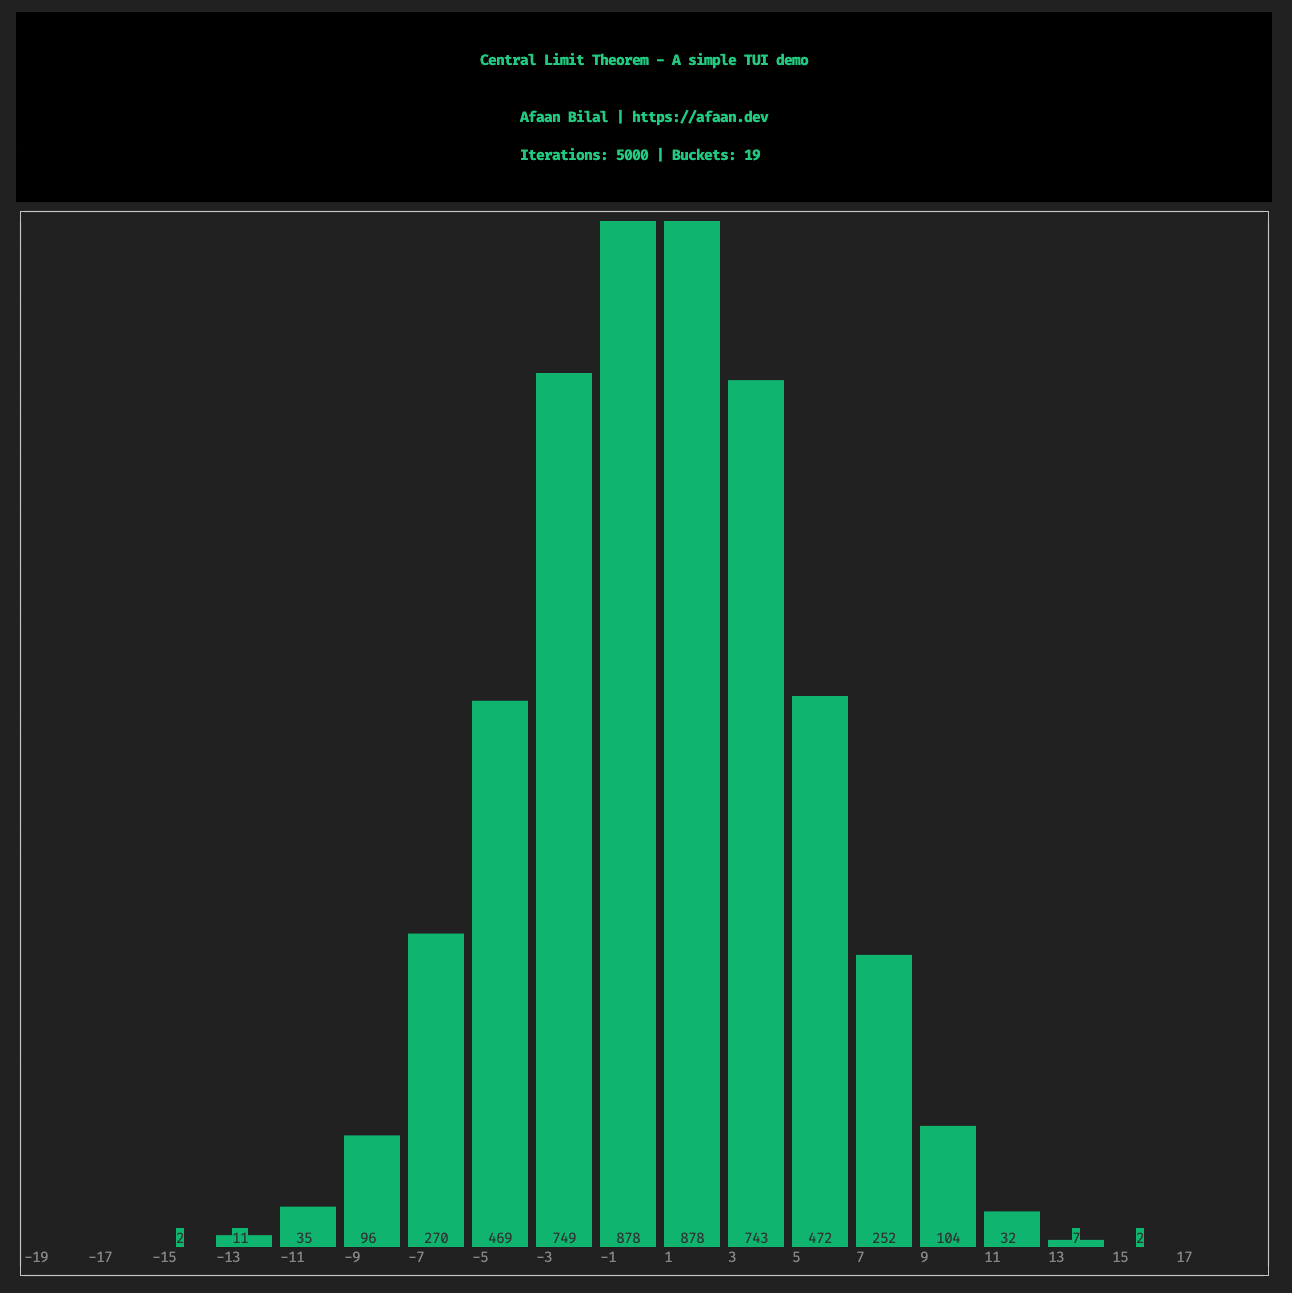
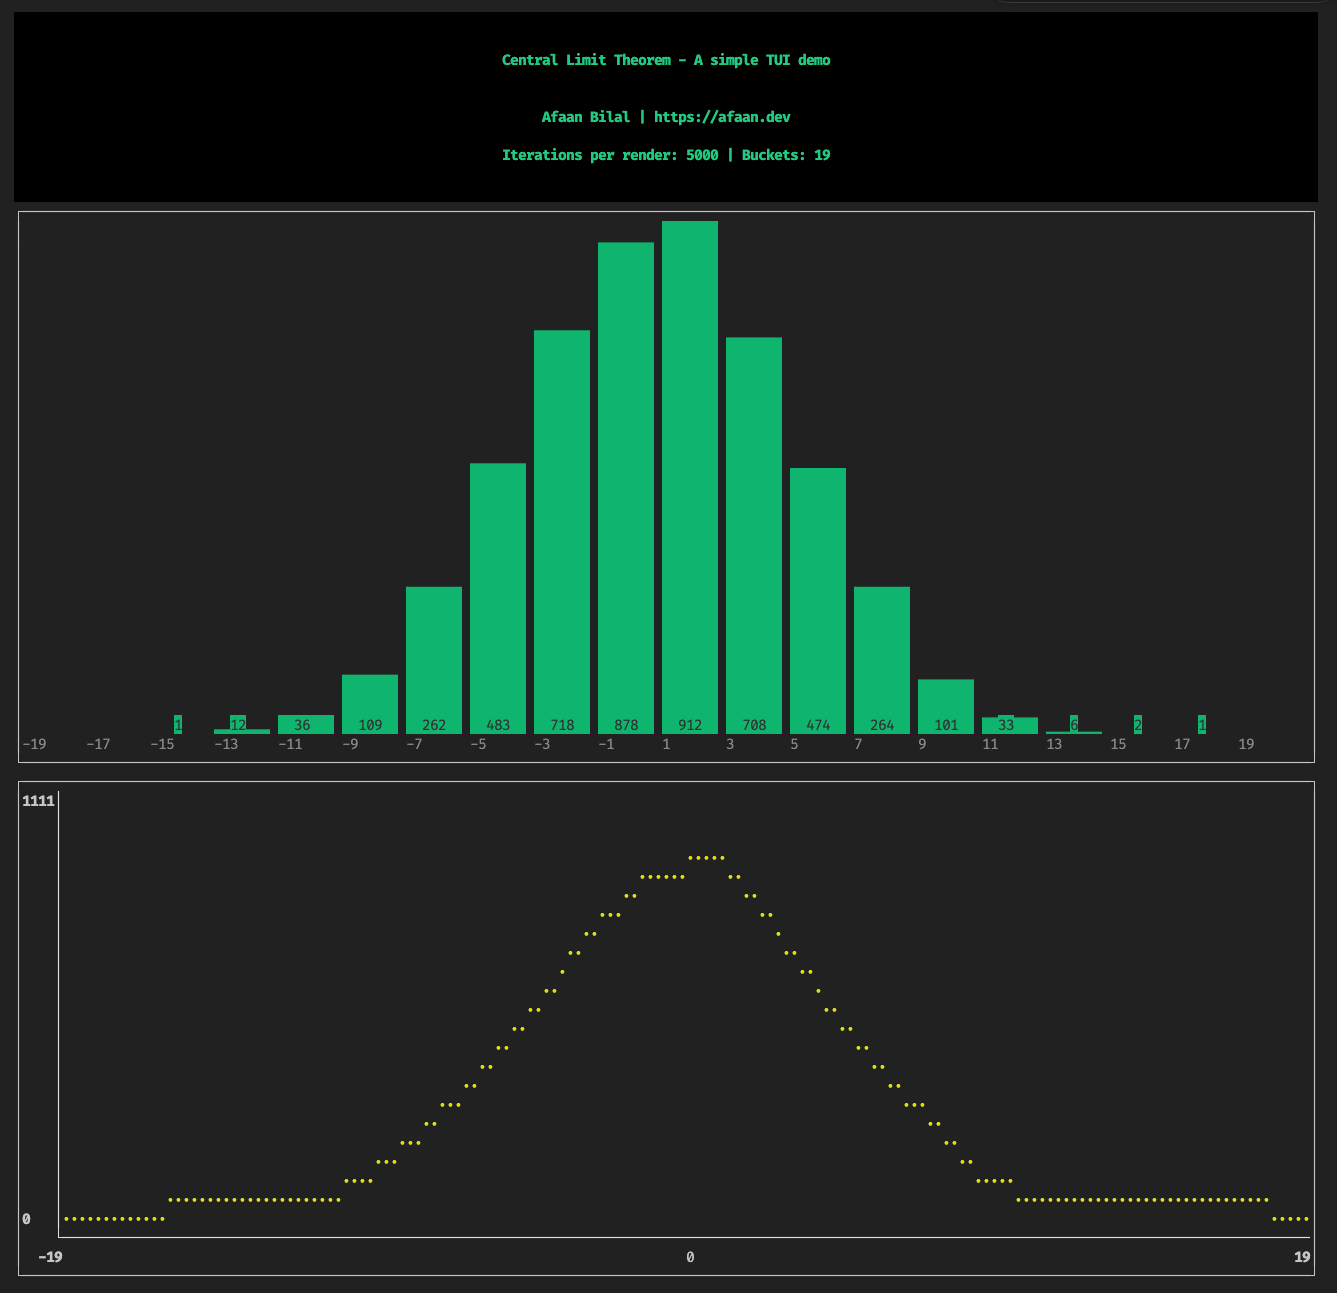
✨ Add: Line Graph

diff --git a/src/main.rs b/src/main.rs
@@ -22,7 +22,9 @@ use tui::{
     backend::{Backend, CrosstermBackend},
     layout::{Alignment, Constraint, Direction, Layout},
     style::{Color, Modifier, Style},
-    widgets::{BarChart, Block, Borders, Paragraph},
+    symbols,
+    text::Span,
+    widgets::{Axis, BarChart, Block, Borders, Chart, Dataset, GraphType, Paragraph},
     Frame, Terminal,
 };
 
@@ -69,28 +71,23 @@ impl App {
         self.data.clear();
 
         for b in buckets {
-            self.data.push((
-                format!("{}", b),
-                sums.iter().filter(|s| *s == &b).count() as u64,
-            ));
+            let sum = sums.iter().filter(|s| *s == &b).count() as u64;
+            self.data.push((format!("{}", b), sum));
         }
     }
 }
 
 fn main() -> Result<(), Box<dyn Error>> {
-    // setup terminal
     enable_raw_mode()?;
     let mut stdout = io::stdout();
     execute!(stdout, EnterAlternateScreen, EnableMouseCapture)?;
     let backend = CrosstermBackend::new(stdout);
     let mut terminal = Terminal::new(backend)?;
 
-    // create app and run it
     let tick_rate = Duration::from_millis(500);
     let app = App::new();
     let res = run_app(&mut terminal, app, tick_rate);
 
-    // restore terminal
     disable_raw_mode()?;
     execute!(
         terminal.backend_mut(),
@@ -136,7 +133,14 @@ fn ui<B: Backend>(f: &mut Frame<B>, app: &App) {
     let chunks = Layout::default()
         .direction(Direction::Vertical)
         .margin(2)
-        .constraints([Constraint::Percentage(15), Constraint::Percentage(85)].as_ref())
+        .constraints(
+            [
+                Constraint::Percentage(15),
+                Constraint::Percentage(45),
+                Constraint::Percentage(40),
+            ]
+            .as_ref(),
+        )
         .split(f.size());
 
     f.render_widget(
@@ -154,7 +158,7 @@ fn ui<B: Backend>(f: &mut Frame<B>, app: &App) {
         chunks[0],
     );
 
-    let app_data = app
+    let bar_data = app
         .data
         .iter()
         .map(|x| (x.0.as_str(), x.1))
@@ -162,7 +166,7 @@ fn ui<B: Backend>(f: &mut Frame<B>, app: &App) {
 
     let bar_chart = BarChart::default()
         .block(Block::default().borders(Borders::ALL))
-        .data(&app_data)
+        .data(&bar_data)
         .bar_width(7)
         .bar_gap(1)
         .bar_style(Style::default().fg(Color::Green))
@@ -173,4 +177,50 @@ fn ui<B: Backend>(f: &mut Frame<B>, app: &App) {
         )
         .value_style(Style::default().fg(Color::White).bg(Color::Green));
     f.render_widget(bar_chart, chunks[1]);
+
+    let app_line_data = app
+        .data
+        .iter()
+        .map(|x| (x.0.parse::<f64>().unwrap(), x.1 as f64))
+        .collect::<Vec<_>>();
+
+    let line_data = vec![Dataset::default()
+        .marker(symbols::Marker::Dot)
+        .style(Style::default().fg(Color::Yellow))
+        .graph_type(GraphType::Line)
+        .data(&app_line_data)];
+
+    let y_max = (app.b_count as f64) / 4.5;
+
+    let chart = Chart::new(line_data)
+        .block(Block::default().borders(Borders::ALL))
+        .x_axis(
+            Axis::default()
+                .style(Style::default().fg(Color::Gray))
+                .labels(vec![
+                    Span::styled(
+                        format!("-{}", app.r_max),
+                        Style::default().add_modifier(Modifier::BOLD),
+                    ),
+                    Span::raw("0"),
+                    Span::styled(
+                        format!("{}", app.r_max),
+                        Style::default().add_modifier(Modifier::BOLD),
+                    ),
+                ])
+                .bounds([-app.r_max as f64, app.r_max as f64]),
+        )
+        .y_axis(
+            Axis::default()
+                .style(Style::default().fg(Color::Gray))
+                .labels(vec![
+                    Span::styled("0", Style::default().add_modifier(Modifier::BOLD)),
+                    Span::styled(
+                        format!("{:.0}", y_max),
+                        Style::default().add_modifier(Modifier::BOLD),
+                    ),
+                ])
+                .bounds([0.0, y_max]),
+        );
+    f.render_widget(chart, chunks[2]);
 }
